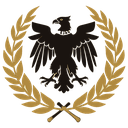
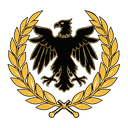
Menu art: the owner's cleaned emblems and the painted Rome key art. assets/ui/emblems: the two marks cut from the owner's cleaned sheet (strategic_command_reference, cleaned up externally from the generated candidates) with the background keyed to alpha, 512 and 128 px (tools/menu_art/cut_sheet.py);
Claude-Session: https://claude.ai/code/session_0176xvpqGUFnMoetP3ki2iqX

diff --git a/tools/menu_art/cut_sheet.py b/tools/menu_art/cut_sheet.py
@@ -1,0 +1,36 @@
+#!/usr/bin/env python3
+"""Cut a hand-cleaned two-emblem sheet (left = west, right = rome, flat brown ground) into transparent emblems.
+  python3 -I cut_sheet.py SHEET.png OUT_DIR     -> OUT_DIR/west.png rome.png (512), west_128.png rome_128.png
+Colour-keys the ground (median of the border, soft edge, spill removed), splits at the emptiest column near the middle,
+trims, centres on a square with 6 % padding. PIL + numpy + scipy."""
+import sys, os
+import numpy as np
+from PIL import Image
+from scipy import ndimage as ndi
+
+im = Image.open(sys.argv[1]).convert("RGB"); out = sys.argv[2]; os.makedirs(out, exist_ok=True)
+a = np.asarray(im).astype(float)
+border = np.concatenate([a[0], a[-1], a[:, 0], a[:, -1]])
+bg = np.median(border, axis=0)
+d = np.sqrt(((a - bg) ** 2).sum(2))
+alpha = np.clip((d - 12) / (34 - 12), 0, 1)
+al = alpha[..., None]
+col = np.where(al > 0.01, (a - (1 - al) * bg) / np.maximum(al, 1e-3), a)
+col = np.clip(col, 0, 255)
+rgba = np.dstack([col, alpha * 255]).astype(np.uint8)
+# drop specks
+keep, n = ndi.label(alpha > 0.5)
+sizes = ndi.sum(alpha > 0.5, keep, range(1, n + 1))
+rgba[..., 3] = np.where(np.isin(keep, [i + 1 for i, s in enumerate(sizes) if s >= 150]) | (ndi.binary_dilation(np.isin(keep, [i + 1 for i, s in enumerate(sizes) if s >= 150]), iterations=2)), rgba[..., 3], 0)
+w = rgba.shape[1]
+cols = (rgba[..., 3] > 30).sum(0)
+lo, hi = int(w * 0.4), int(w * 0.6)
+cut = lo + int(np.argmin(cols[lo:hi]))
+print("split column", cut, "of", w, "ink in that column", cols[cut])
+for name, part in (("west", rgba[:, :cut]), ("rome", rgba[:, cut:])):
+    o = Image.fromarray(part, "RGBA"); o = o.crop(o.getchannel("A").point(lambda v: 255 if v > 8 else 0).getbbox())
+    side = round(max(o.size) / 0.88)
+    sq = Image.new("RGBA", (side, side), (0, 0, 0, 0)); sq.paste(o, ((side - o.width) // 2, (side - o.height) // 2))
+    for px, fn in ((512, name + ".png"), (128, name + "_128.png")):
+        sq.resize((px, px), Image.LANCZOS).save(os.path.join(out, fn), optimize=True)
+    print(name, o.size, "->", side)
